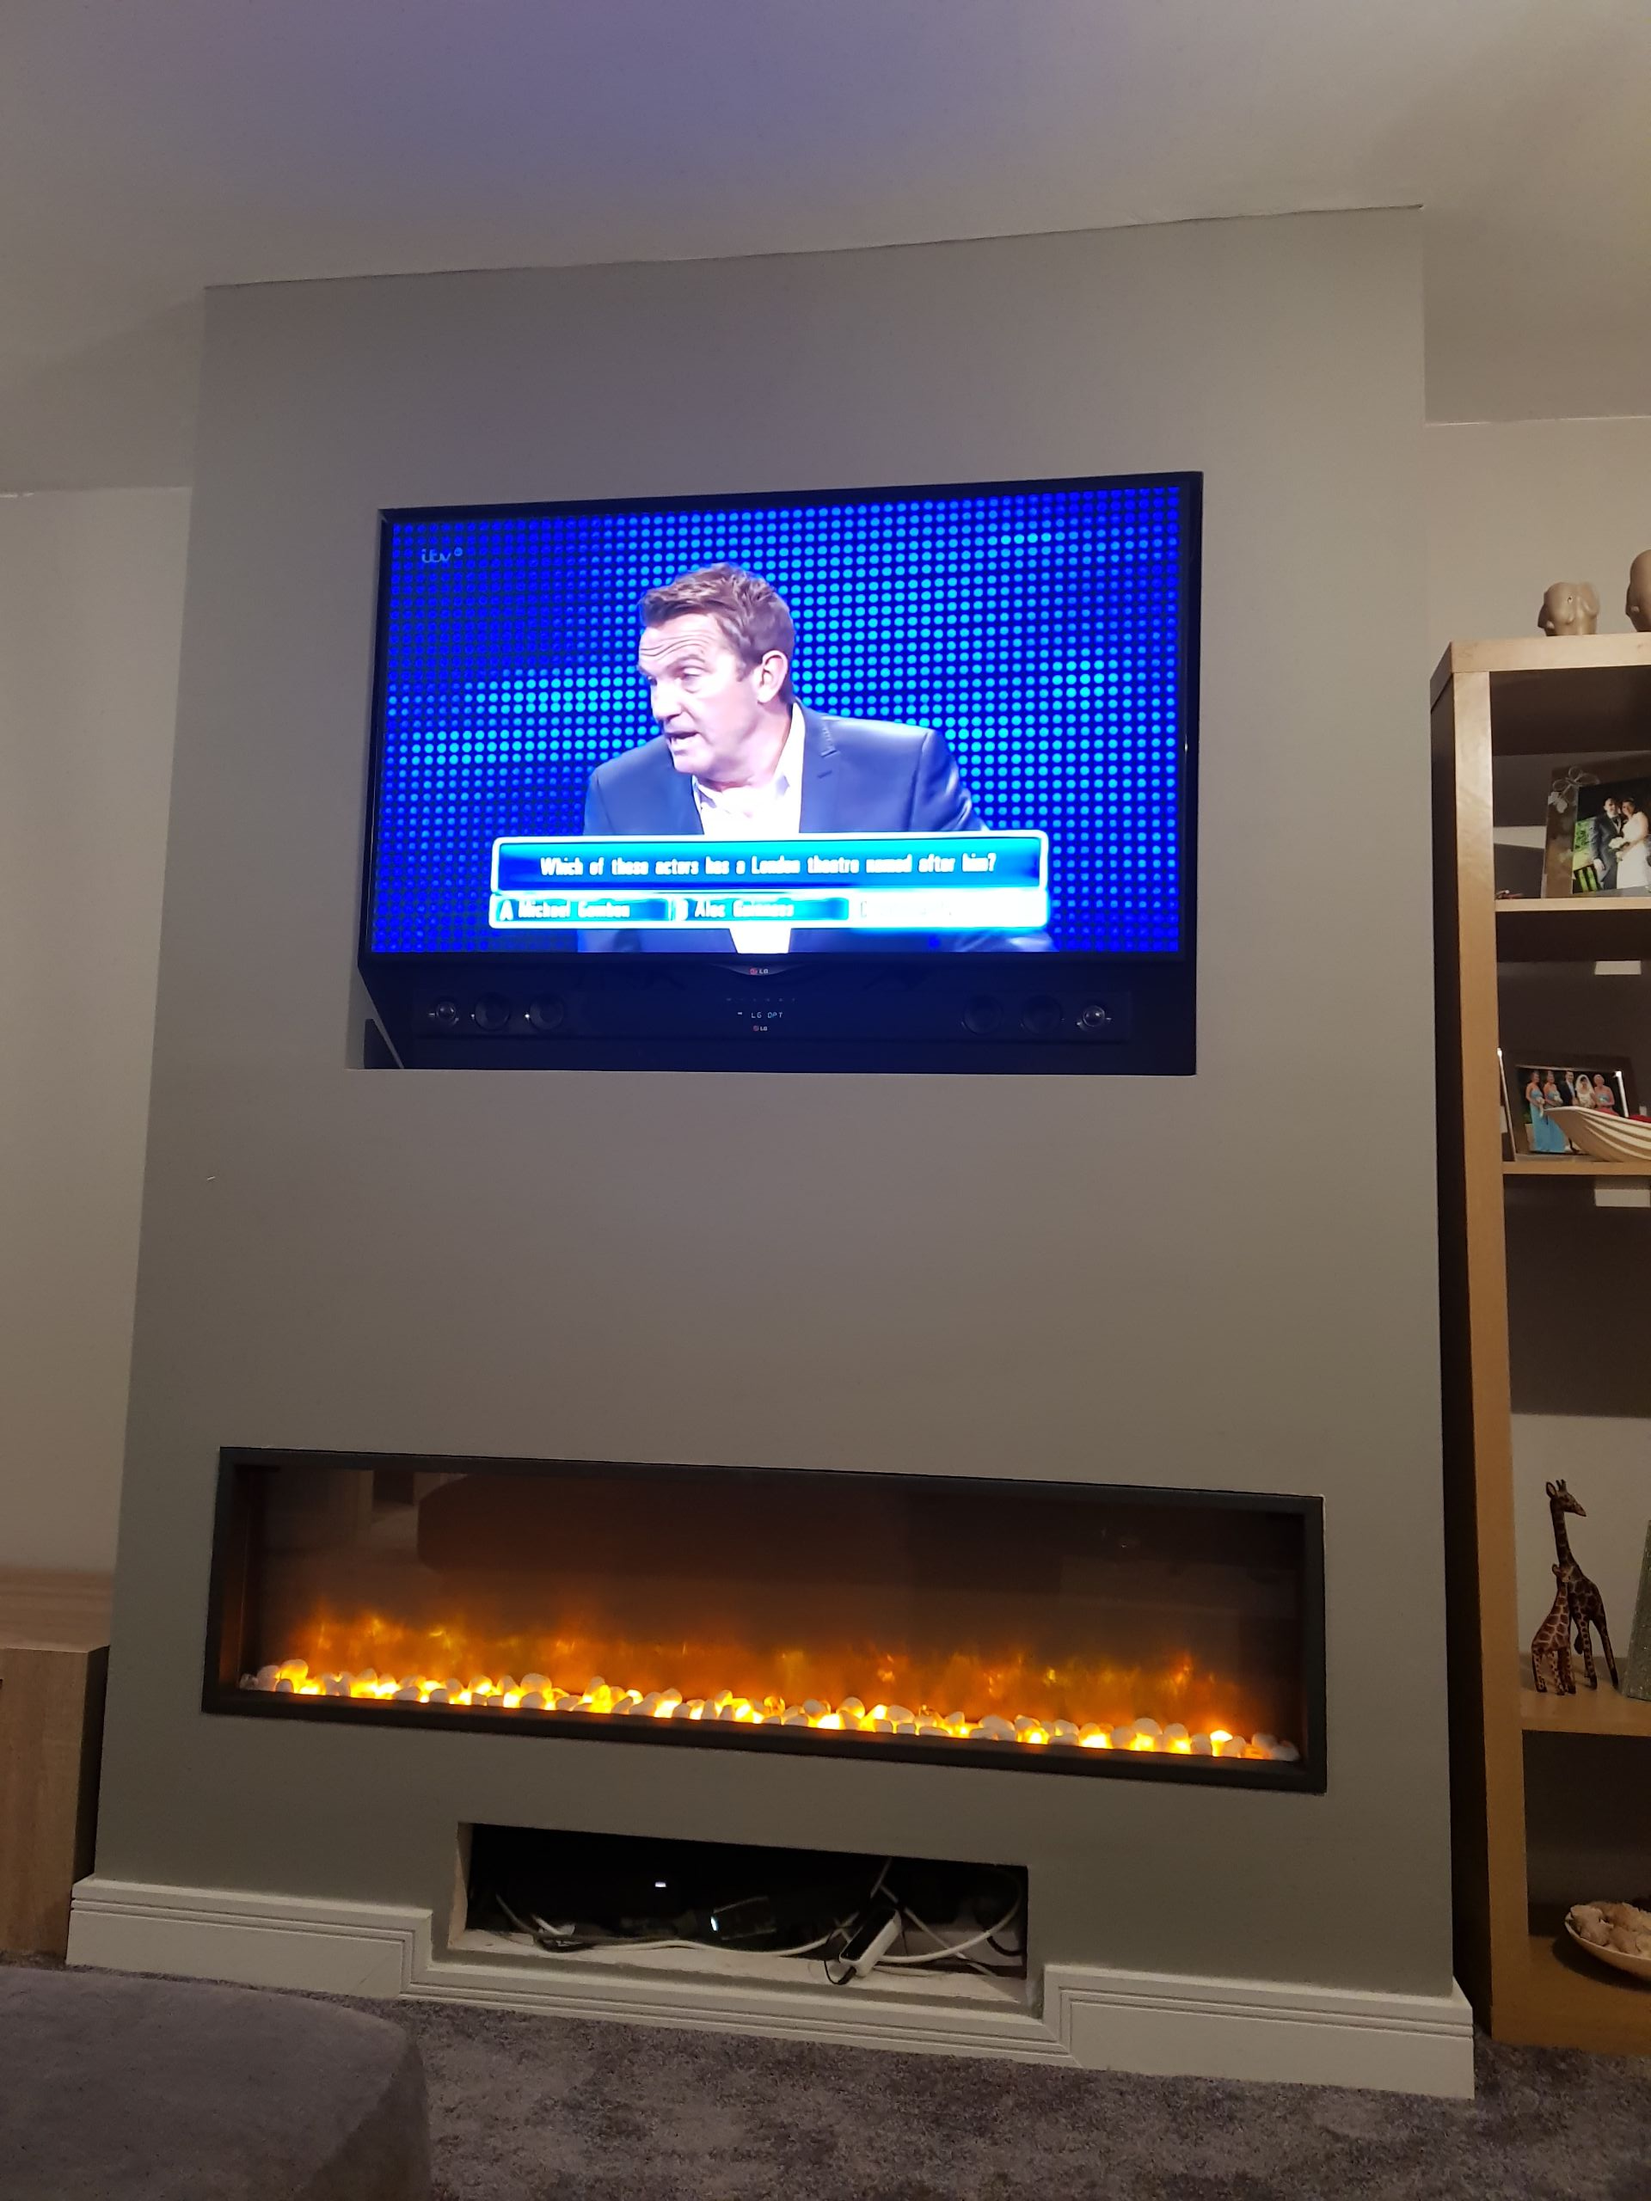
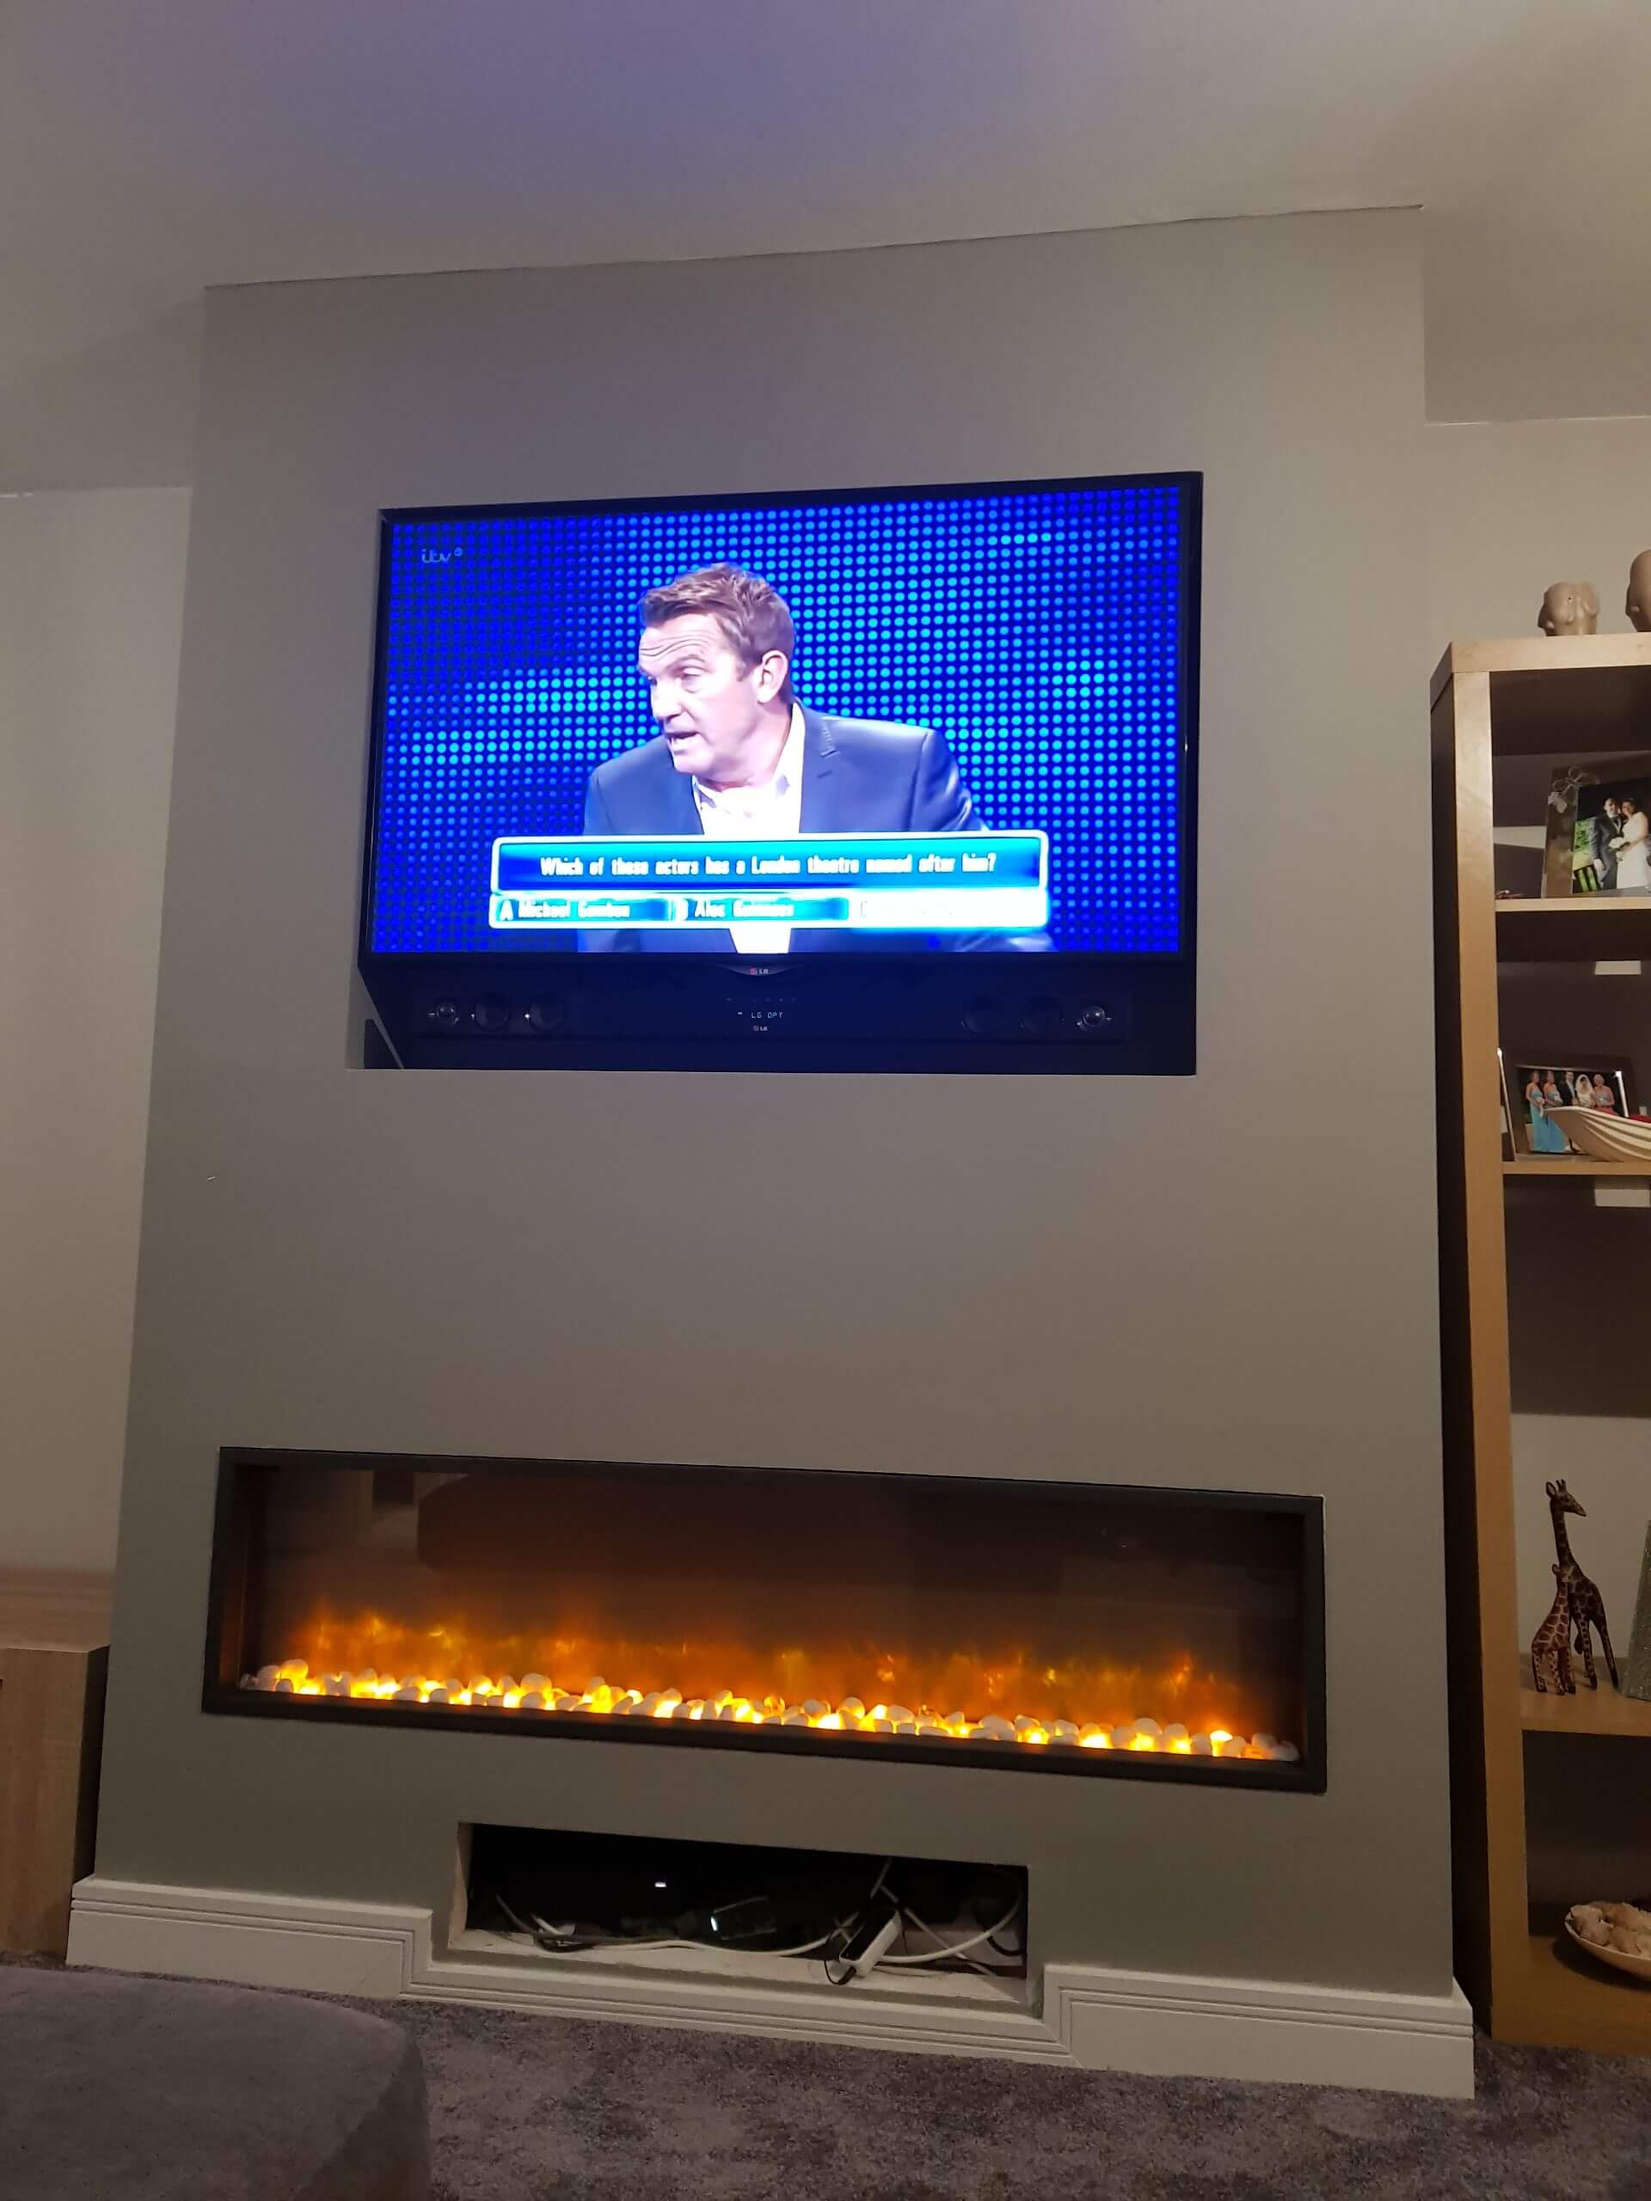
replaced images with optimised, adjusted page layout

Changed region(s): [[0.4688, 0.25, 0.6875, 0.3438], [0.25, 0.3125, 0.375, 0.3438]]

diff --git a/main.css b/main.css
@@ -1,3 +1,13 @@
+html,
+body {
+    height:100%;
+}
+
+body {
+  display: flex;
+  flex-direction: column;
+}
+
 
 
 /*--------------------------------------------------Navbar---------------------------*/
@@ -34,9 +44,12 @@
 }
 
 
+
+
 /*--------------------------------------------------Homepage---------------------------*/
 
 .mainbody {
+    flex: 1 0 auto;
     background-color: #efefef;
     margin:0;
     padding-top: 25px;
@@ -72,6 +85,7 @@
 /*--------------------------------------------------Services---------------------------*/
 
 .servicesbody {
+    flex: 1 0 auto;
     background-color: #efefef;
     margin:0;
     padding-top: 25px;
@@ -129,6 +143,7 @@
 /*--------------------------------------------------Testimonials---------------------------*/
 
 .testimonialbody {
+    flex: 1 0 auto;
     background-color: #efefef;
     padding-top: 50px;
     padding-bottom: 50px;
@@ -174,6 +189,7 @@
 }
 
 .hintstipsbg {
+    flex: 1 0 auto;
     background-color: #efefef;
 }
 
@@ -188,6 +204,7 @@
 /*--------------------------------------------------Contact Us---------------------------*/
 
 .contactbg {
+    flex: 1 0 auto;
     background-color: #efefef;
     color: #777;
 }
@@ -212,6 +229,7 @@
 
 
 .foot {
+    flex-shrink: 0;
     background-color: #0e2f63;
     min-height:50px;
     box-shadow: 0 -.5rem 1rem rgba(14,47,99,.5);

diff --git a/index.html b/index.html
@@ -25,7 +25,7 @@
 
             <div class="navbar-header">
                 <button type="button" class="navbar-toggle collapsed" data-toggle="collapse" data-target="#navbar-collapse-1" aria-expanded="false">
-                <i class="fa fa-bars">
+                <i class="fa fa-bars fa-3x">
                 </i>
                 </button>
                 <a class="navbar-brand" href="index.html"><img src="assets/logo-white.png" alt="Peer Property Services Home"></a>

diff --git a/contact.html b/contact.html
@@ -25,7 +25,7 @@
 
             <div class="navbar-header">
                 <button type="button" class="navbar-toggle collapsed" data-toggle="collapse" data-target="#navbar-collapse-1" aria-expanded="false">
-                <i class="fa fa-bars">
+                <i class="fa fa-bars fa-3x">
                 </i>
         </button>
                 <a class="navbar-brand" href="index.html"><img src="assets/logo-white.png" alt="Peer Property Services Home"></a>

diff --git a/hintstips.html b/hintstips.html
@@ -25,7 +25,7 @@
 
             <div class="navbar-header">
                 <button type="button" class="navbar-toggle collapsed" data-toggle="collapse" data-target="#navbar-collapse-1" aria-expanded="false">
-                <i class="fa fa-bars">
+                <i class="fa fa-bars fa-3x">
                 </i>
         </button>
                 <a class="navbar-brand" href="index.html"><img src="assets/logo-white.png" alt="Peer Property Services Home"></a>

diff --git a/services.html b/services.html
@@ -25,7 +25,7 @@
 
             <div class="navbar-header">
                 <button type="button" class="navbar-toggle collapsed" data-toggle="collapse" data-target="#navbar-collapse-1" aria-expanded="false">
-                <i class="fa fa-bars">
+                <i class="fa fa-bars fa-3x">
                 </i>
         </button>
                 <a class="navbar-brand" href="index.html"><img src="assets/logo-white.png" alt="Peer Property Services Home"></a>

diff --git a/testimonials.html b/testimonials.html
@@ -25,7 +25,7 @@
 
             <div class="navbar-header">
                 <button type="button" class="navbar-toggle collapsed" data-toggle="collapse" data-target="#navbar-collapse-1" aria-expanded="false">
-                <i class="fa fa-bars">
+                <i class="fa fa-bars fa-3x">
                 </i>
         </button>
                 <a class="navbar-brand" href="index.html"><img src="assets/logo-white.png" alt="Peer Property Services Home"></a>
